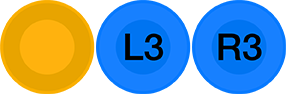
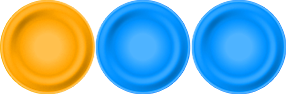
add sticks

diff --git a/DualShock.css b/DualShock.css
@@ -1,35 +1,35 @@
 .controller.ds4.white {
-    background-image: url(https://imgur.com/1pf13el.png);
+    background-image: url(https://github.com/Hunt3RSH/DualSense-Skin-HD2/blob/main/img/DualShock%20Custom/base%20%D0%BA%D0%BE%D0%BF%D1%96%D1%8F.png?raw=true);
 }
 
 .ds4.white.disconnected {
-    background: url(https://imgur.com/ujTHvnk.png);
+    background: url(https://github.com/Hunt3RSH/DualSense-Skin-HD2/blob/main/img/DualShock%20Custom/disconnected2.png?raw=true);
 }
 
 .ds4.white .trigger {
-    background-image: url(https://imgur.com/pMp5IXy.png);
+    background-image: url(https://github.com/Hunt3RSH/DualSense-Skin-HD2/blob/main/img/DualShock%20Custom/triggers2.png?raw=true);
 }
 
 .ds4.white .bumper {
-    background-image: url(https://imgur.com/7BudFX1.png);
+    background-image: url(https://github.com/Hunt3RSH/DualSense-Skin-HD2/blob/main/img/DualShock%20Custom/bumper%2099x22.png?raw=true);
 }
 
 .ds4.white .touchpad.pressed {
-    background-image: url(https://imgur.com/JxiW8G5.png);
+    background-image: url(https://github.com/Hunt3RSH/DualSense-Skin-HD2/blob/main/img/DualShock%20Custom/touchpad2.png?raw=true);
 }
 
 .ds4.white .back, .ds4 .start {
-    background-image: url(https://imgur.com/Ltwln7z.png);
+    background-image: url(https://github.com/Hunt3RSH/DualSense-Skin-HD2/blob/main/img/DualShock%20Custom/start2.png?raw=true);
 }
 
 .ds4.white .button {
-    background-image: url(https://imgur.com/Gcb9JgN.png);
+    background-image: url(https://github.com/Hunt3RSH/DualSense-Skin-HD2/blob/main/img/DualShock%20Custom/face.png?raw=true);
 }
 
 .ds4.white .stick {
-    background-image: url(https://imgur.com/a4o2b6P.png);
+    background-image: url(https://github.com/Hunt3RSH/DualSense-Skin-HD2/blob/main/img/DualShock%20Custom/sticks2.png?raw=true);
 }
 
 .ds4.white .face {
-    background-image: url(https://imgur.com/1iZfYnh.png);
+    background-image: url(https://github.com/Hunt3RSH/DualSense-Skin-HD2/blob/main/img/DualShock%20Custom/dpad%20174x104.png?raw=true);
 }
